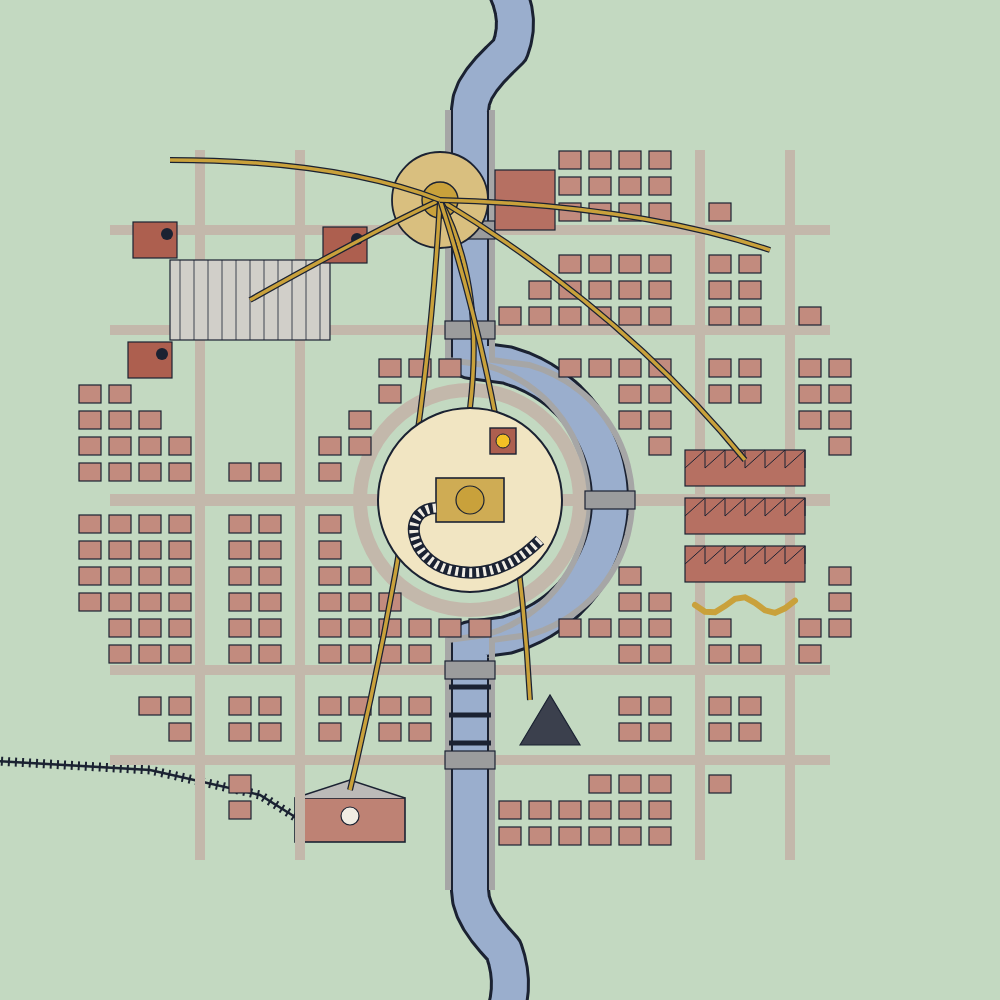
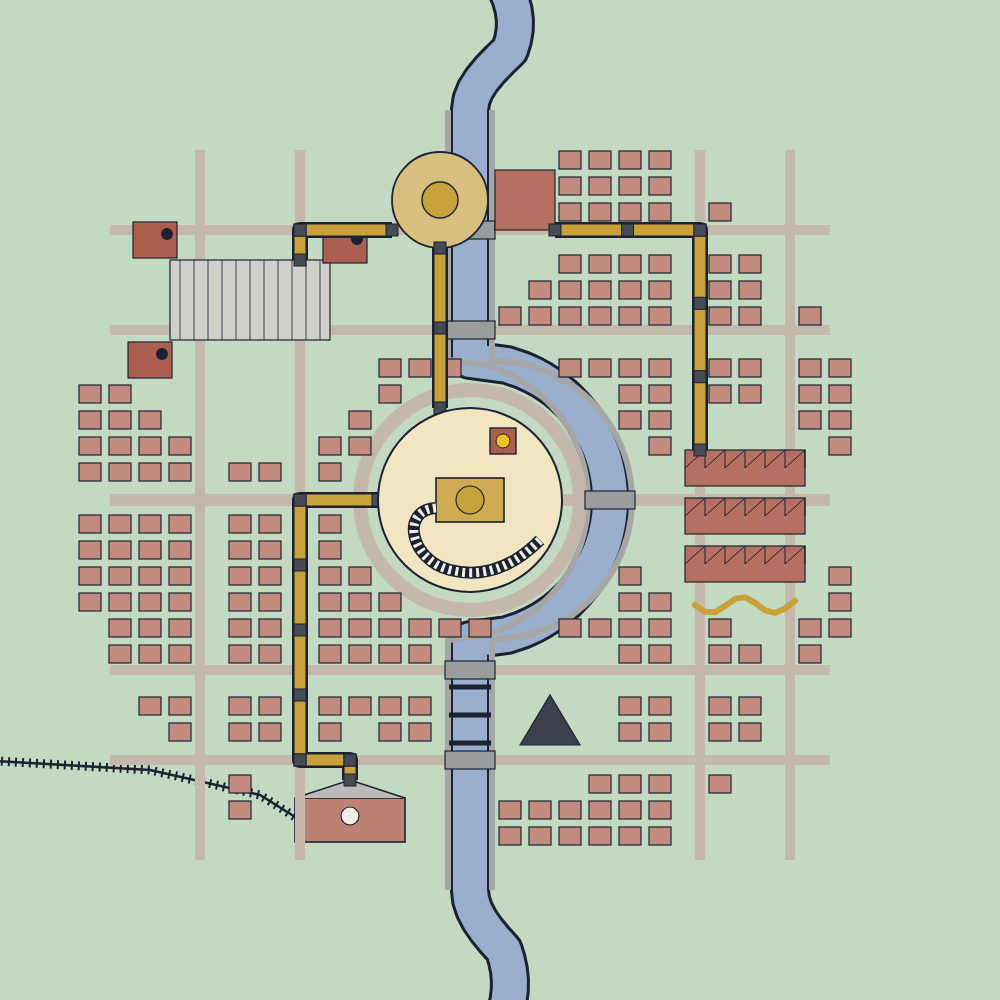
docs(illustrations): grosses conduites de Turingrad le long des rues, prompt v2

diff --git a/docs/Chiphres/illustrations/villes/turingrad/plan-schematique.py b/docs/Chiphres/illustrations/villes/turingrad/plan-schematique.py
@@ -3,7 +3,8 @@
 # Ville de brique et de fonte coupée du nord au sud par la Vistule canalisée ; place ronde au centre (Place du Reset),
 # que le canal contourne par l'est ; trois quartiers autour : Babbage (rive ouest), Lovelace (rive est), Tubes (nord) ;
 # la Gare au sud, terminus du chemin de fer venu de l'ouest (Sandomir) ; les Écluses sur le canal, au sud de la place,
-# avec la Pile de Charbon. Tubes pneumatiques de laiton de toit en toit, depuis la centrale du Quartier des Tubes.
+# avec la Pile de Charbon. Trois grosses conduites pneumatiques de laiton, au-dessus des rues, depuis la centrale du
+# Quartier des Tubes.
 # --reference-ia : référence pour l'IA (qui recopie tout) : aucun texte.
 # Rendu PNG : chrome-headless-shell de Playwright (--screenshot) ; magick ne trouve pas les polices.
 import math, sys
@@ -128,12 +129,24 @@ tx, ty = CX - 30, 200
 add(f'<circle cx="{tx}" cy="{ty}" r="48" fill="{mix(BRASS, 0.6)}" stroke="{INK}" stroke-width="1.8"/>')
 add(f'<circle cx="{tx}" cy="{ty}" r="18" fill="{BRASS}" stroke="{INK}" stroke-width="1.4"/>')
 block(tx + 55, ty - 30, 60, 60, mix(BRICK, 0.7))  # archives
-# tubes de laiton de la centrale vers chaque quartier
-for ex, ey in ((bx, by), (lx, ly - 60), (CX, CY - R_PLACE), (GARE[0], GARE[1] - 30), (CX + 60, 700),
-               (CX - 300, 160), (CX + 300, 250)):
-    add(f'<path d="M{tx},{ty} Q{(tx + ex) / 2 + 30},{(ty + ey) / 2 - 20} {ex},{ey}" fill="none" stroke="{INK}" '
-        f'stroke-width="6"/><path d="M{tx},{ty} Q{(tx + ex) / 2 + 30},{(ty + ey) / 2 - 20} {ex},{ey}" fill="none" '
-        f'stroke="{BRASS}" stroke-width="3.5"/>')
+# trois grosses conduites de laiton, au-dessus des rues, sur pylônes de fonte (David, 2026-10-30 : des diagonales
+# fines à travers les toits donnaient n'importe quoi) : vers Babbage, vers Lovelace, vers la place, et de la place
+# à la Gare
+TUBES = [
+    [(tx - 48, ty + 30), (CX - 170, ty + 30), (CX - 170, by - 40)],
+    [(tx + 115, ty + 30), (CX + 230, ty + 30), (CX + 230, ly - 70)],
+    [(tx, ty + 48), (tx, CY - R_PLACE)],
+    [(CX - R_PLACE, CY), (CX - 170, CY), (CX - 170, 760), (GARE[0], 760), (GARE[0], GARE[1] - 40)],
+]
+for pts in TUBES:
+    add(f'<path d="{path(pts)}" fill="none" stroke="{INK}" stroke-width="16" stroke-linejoin="round"/>')
+    add(f'<path d="{path(pts)}" fill="none" stroke="{BRASS}" stroke-width="11" stroke-linejoin="round"/>')
+    for (x1, y1), (x2, y2) in zip(pts, pts[1:]):  # pylônes réguliers le long de la conduite
+        n = max(1, int(math.hypot(x2 - x1, y2 - y1) // 60))
+        for k in range(n + 1):
+            x, y = x1 + (x2 - x1) * k / n, y1 + (y2 - y1) * k / n
+            add(f'<rect x="{x - 6:.1f}" y="{y - 6:.1f}" width="12" height="12" fill="{mix(INK, 0.8)}" stroke="{INK}" '
+                f'stroke-width="1"/>')
 
 # 6. Les Écluses (canal, sud de la place) et la Pile de Charbon
 ey = 715

diff --git a/docs/wip/illustrations-progress.md b/docs/wip/illustrations-progress.md
@@ -6,7 +6,7 @@ _Mis à jour le 2026-10-30, plan de Turingrad validé ; pas de PR : chantier 100
 
 - **État** : casting, gouverneurs et Palotins versés au Compendium (§ XI) ; plans des sept capitales au Compendium. **Grande carte terminée** : sept villes, noms, frontières, cartouche et encart de la Réunion (bas-droite). **Fond de la grande carte FIGÉ** : `carte/fond-carte-hd.webp` (4356×3904, WebP q92 ; PNG maître de 32 Mo chez David, `~/Downloads/fond-carte-hd-2026-10-29.png`, hors dépôt). Chaîne : Nano Banana (style carte de conte / carte marine, référence `carte/plan-reference-ia.png`) → retouches une à une (`carte/fond-retouche-2026-10-29.jpeg`, 1089×976) → Upscayl ×4, modèle High Fidelity (Digital Art durcit les traits en BD, Standard floute). Pas de clairière à Sinusborg (sa vignette couvrira le delta). Leçon : chaque retouche Nano Banana dégrade l'image ; nouvelle conversation, une retouche par demande.
 - **Prochaine action** : **Turingrad**, plan schématique VALIDÉ (2026-10-30) : `villes/turingrad/plan-schematique.py` ; référence sans texte `plan-reference-ia.png` copiée dans `~/Downloads/turingrad-plan-reference-ia.png` ; prompt dans la section « Cartes des capitales ». David lance Nano Banana → image de la ville à valider → surcouche `carte-turingrad.py` (modèle : `villes/sandomir/carte-sandomir.py`) → rendu WebP. Rendu SVG → PNG par `chrome-headless-shell` de Playwright, puis `magick -quality 92` → WebP. **Sandomir terminée** (`villes/sandomir/carte-sandomir.svg` + `.webp`).
-- **En attente de David** : l'image de Turingrad tirée par Nano Banana.
+- **En attente de David** : l'image de Turingrad tirée par Nano Banana (prompt v2, référence v2 aux grosses conduites).
 - **Pièges en cours** : **fichiers pour l'IA copiés dans `~/Downloads`** ; une retouche Nano Banana redessine toute l'image (couleurs, netteté) : corriger à la main sur l'original (`effacer-ponts.sh`, `coller-arene.sh`) ; image de style en 2e pièce jointe = copiée telle quelle, ne pas la joindre. **pas de formes géométriques plaquées sur le paysage** (David, 2026-10-29) : la discipline de chaque province ne se montre que dans sa ville. Ubu sans chapeau pointu ni longue robe blanche ; joindre l'image d'Ubu comme référence à chaque nouveau personnage ; noms de couleurs en anglais courant ; références sans texte ; jamais de personne réelle nommée. Le Lexique décrit encore Turingrad « brutaliste soviétique » : ne pas y toucher sans demande.
 - **Worktree / branche** : aucun, commits doc directs sur `main`.
 
@@ -101,5 +101,17 @@ Redraw the attached plan as a hand-drawn bird's-eye map of an imaginary Victoria
 Layout to keep: a river comes in from the bottom edge, becomes a straight stone-lined canal through the whole city from south to north, bends around the east side of the big round central square, and leaves by the top edge as a natural winding river. Five small iron bridges cross the canal. A grid of straight streets on both banks, a ring street around the central square, rows of tightly packed red-brick houses, every house slightly different, drawn in slight perspective. No city wall: the city fades into green meadows.
 Places to keep: in the center, a big round cobbled square with a giant brass and cast-iron machine reading an endless punched paper tape that loops across the square, and a small brick bell tower with a golden bell. West bank (upper left): factories with tall smoking chimneys and a long glass-roofed iron hall. East bank (right): three long weaving workshops with saw-tooth roofs, and a small brass mechanical snake on the street below them. North: a round brass pneumatic-tube station with a brick archive building next to it; thin brass tubes run from it over the rooftops to every district. South of the square, on the canal: a flight of three locks, and a big black coal heap on the east quay. South-west: a red-brick railway station with a clock, its steam railway leaving toward the left edge.
 Style: an antique storybook map, like an early 20th-century fairy-tale map or an old sea chart: fine ink outlines, soft watercolor washes on aged cream parchment, a few puffs of white steam above the chimneys. Colors: navy ink, cream parchment, brick red, soot black, brass gold, soft blue water, meadows in soft greens.
+No text, no labels, no letters, no numbers, no compass rose, no frame, no border.
+```
+
+Turingrad, 1er essai Nano Banana (2026-10-30, non gardé) : plan bien suivi, mais les tubes fins en diagonale à travers les toits « donnent n'importe quoi », et la ville manque de détails et de vie (David). Correction : **quatre grosses conduites de laiton** qui suivent les rues, sur pylônes de fonte (centrale → Babbage, → Lovelace, → place ; place → Gare) ; prompt v2 plus vivant :
+
+```
+Redraw the attached plan as a richly detailed, hand-drawn bird's-eye map of an imaginary Victorian steampunk industrial capital, keeping every element exactly where it is, with the same shapes and proportions. Square format.
+Layout to keep: a river comes in from the bottom edge, becomes a straight stone-lined canal through the whole city from south to north, bends around the east side of the big round central square, and leaves by the top edge as a natural winding river. Five iron bridges cross the canal. A grid of cobbled streets on both banks and a ring street around the square. Rows of tightly packed red-brick terraced houses, every one different, drawn in slight perspective, each with its own little chimney puffing smoke. No city wall: the city fades into green meadows.
+The thick yellow lines of the plan are huge brass pneumatic pipes, as wide as a street, raised on black cast-iron trestles above the streets, with riveted joints, big round valves, pressure gauges and small hissing jets of steam; they follow the streets exactly as drawn and never cross over the houses. Through a few glass windows in the pipes, brass message capsules can be seen rushing along.
+Places to keep: in the center, a big round cobbled square with a giant brass and cast-iron machine reading an endless punched paper tape that loops across the square, and a small brick clock tower with a golden bell. Upper left: factories with tall smoking chimneys and a long glass-roofed iron hall full of gears. East (right): three long weaving workshops with saw-tooth roofs, and a big brass mechanical snake winding along the street below them. North: a round brass pneumatic-tube station with a domed roof, a brick archive building next to it. South of the square, on the canal: a flight of three locks with lock gates, and a big black coal heap on the east quay with a steam crane. South-west: a red-brick railway station with a clock tower, a small steam train arriving from the left edge.
+Life everywhere: tiny workers and passers-by in the streets, horse carts and little steam wagons, coal barges and a small paddle steamer on the canal, gas street lamps, laundry hanging between houses, a few market stalls on the square, cogwheels and clock faces on the facades, white and grey steam clouds drifting over the rooftops, a small airship floating above the city.
+Style: an antique storybook map, like an early 20th-century fairy-tale map or an old sea chart: fine ink outlines, soft watercolor washes on aged cream parchment. Colors: navy ink, cream parchment, brick red, soot black, brass gold, copper, soft blue water, meadows in soft greens.
 No text, no labels, no letters, no numbers, no compass rose, no frame, no border.
 ```
